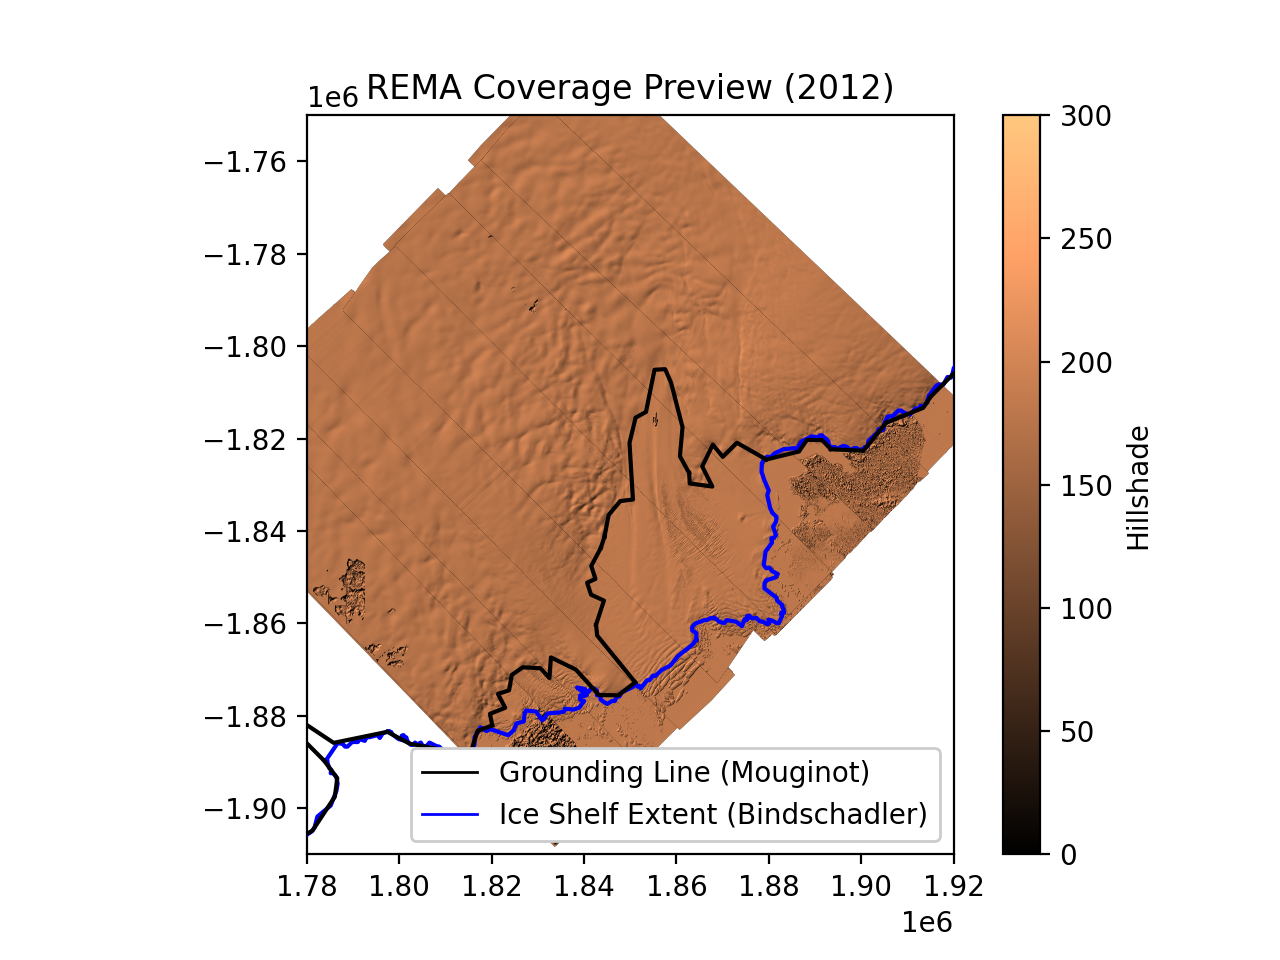
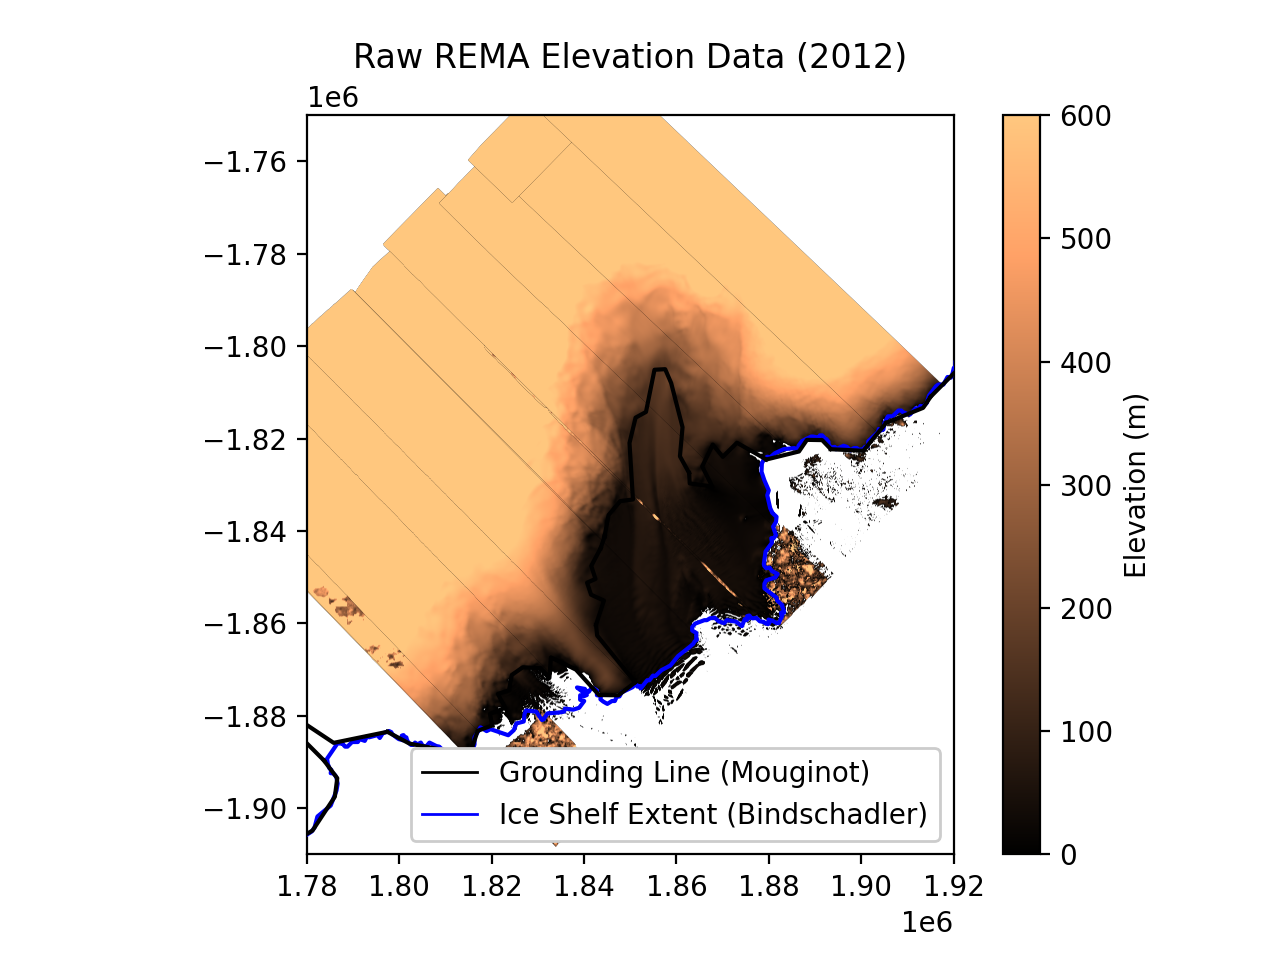
rema data slightly updated

diff --git a/src/plotting.py b/src/plotting.py
@@ -100,7 +100,7 @@ def plot_raw_rema_data(na, year):
         if s.split('.')[-1] != 'tif':
             print('continue')
             continue
-        plot_geotiff(REMA_RAW_LOCATION + str(year) + '/' + s, fig, ax, vmax=300, vmin=0, label = "Elevation (m)", cmap=newcmp, legend=first_item, alpha=1)
+        plot_geotiff(REMA_RAW_LOCATION + str(year) + '/' + s, fig, ax, vmax=600, vmin=0, label = "Elevation (m)", cmap=newcmp, legend=first_item, alpha=1)
         first_item = False
     plot_glacier_borders(fig, ax)
     return True
